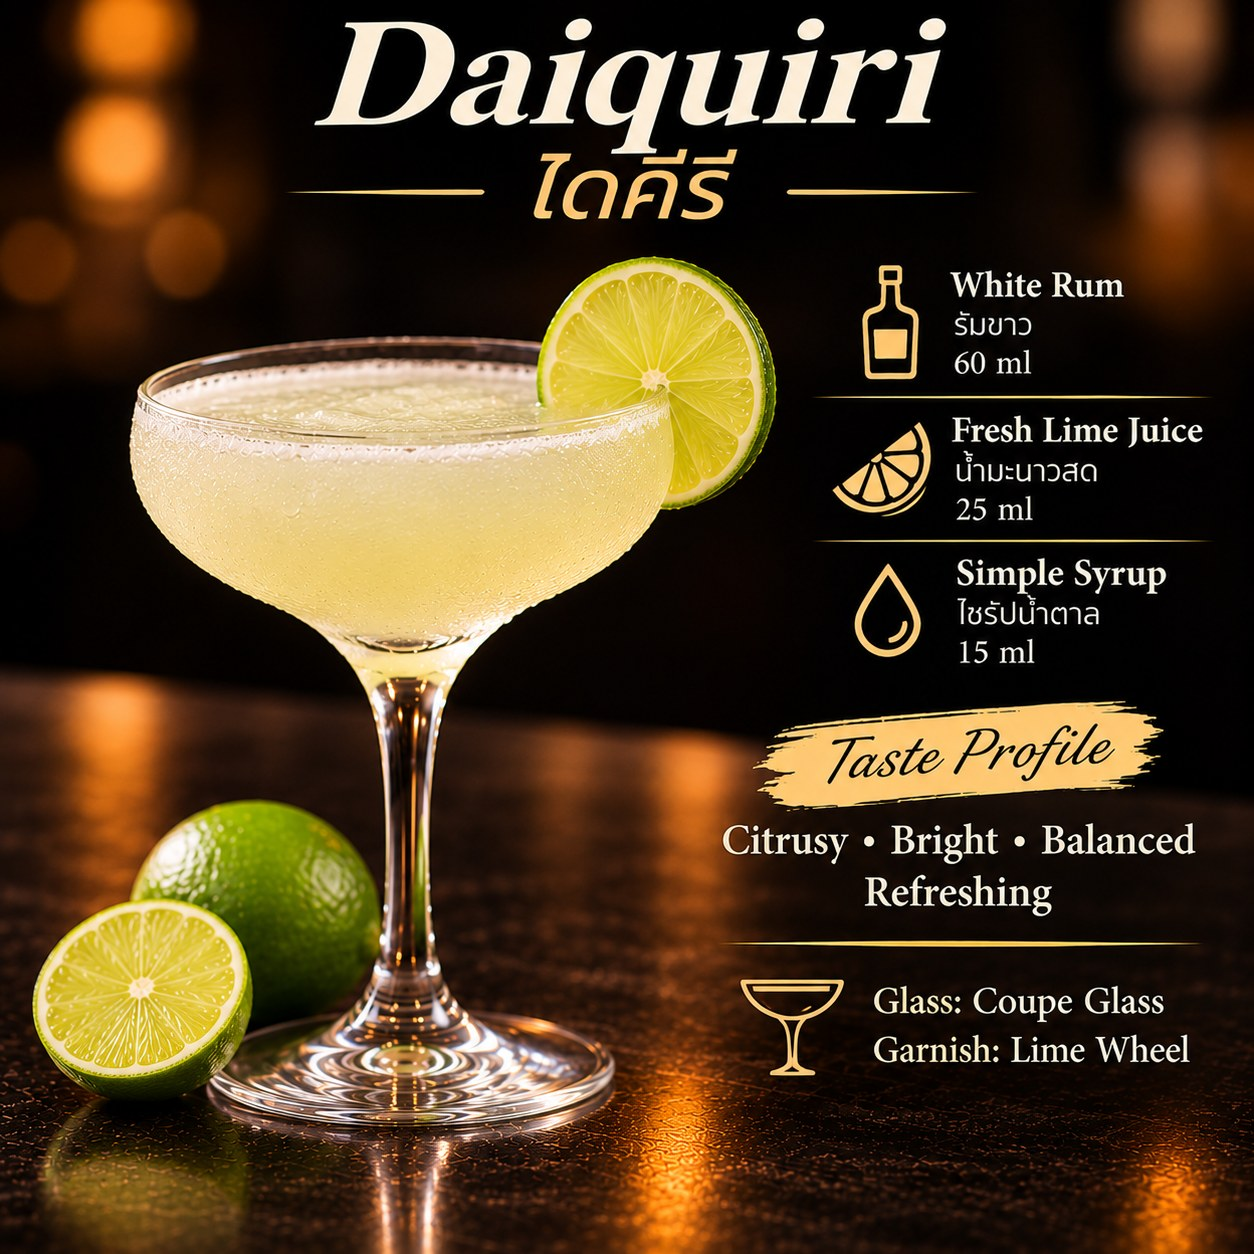
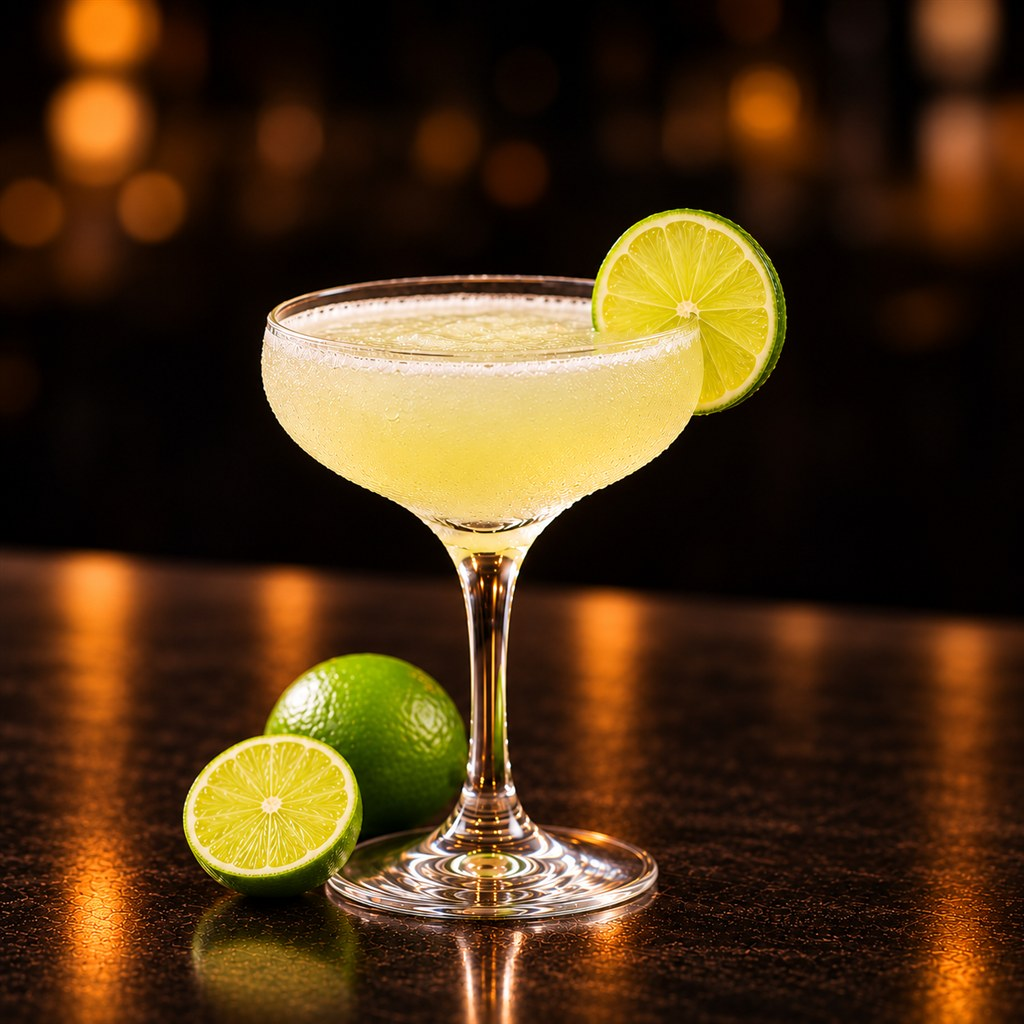
Cocktails: clean drink photos in the grid, info posters in the pop-up
- 11 text posters moved to cocktail_images/poster/; clean versions (Codex gpt-image-2) now in the grid
- 8 new info posters for photo-only drinks
- cocktail.js: new 'poster' field + posterFolder (falls back to image)

Claude-Session: https://claude.ai/code/session_01PazbTDf62U721dDX1YyGGG

diff --git a/cocktail.js b/cocktail.js
@@ -10,7 +10,10 @@
   //   order        1 = first in its section, then 2, 3 ...
   //   price        number, or text like "฿160–250"
   //   unit         "Glass", "Shot" ... shown next to the price
-  //   image        file name inside imageFolder (and thumbFolder)
+  //   image        clean photo (drink only, no text) shown in the grid,
+  //                file name inside imageFolder (and thumbFolder)
+  //   poster       info poster shown in the pop-up when tapped, file name
+  //                inside posterFolder (optional; falls back to image)
   //   new          true puts a gold star on the card
   //   hidden       true hides the drink without deleting it
   //   description  paragraph on the tap card (optional)
@@ -43,6 +46,7 @@
   function render(data){
     var folder = data.imageFolder || '';
     var thumbs = data.thumbFolder || folder;
+    var posters = data.posterFolder || folder;
     var currency = data.currency === undefined ? '฿' : data.currency;
     if (data.title) document.title = 'The Old Pals — ' + data.title;
     var items = (data.items || []).filter(function(it){ return it && !it.hidden; });
@@ -68,7 +72,7 @@
       var grid = el('div', 'grid');
       list.forEach(function(it){
         var price = priceText(it.price, currency);
-        var full = folder + it.image + bust;
+        var full = it.poster ? posters + it.poster + bust : folder + it.image + bust;
         var btn = el('button', 'drink-btn');
         btn.type = 'button';
         btn.setAttribute('aria-label', it.name + (price ? ', ' + price : '') + (it.new ? ', new' : ''));

diff --git a/cocktail.html b/cocktail.html
@@ -44,6 +44,6 @@
   </div>
 </div>
 
-<script src="cocktail.js?v=2"></script>
+<script src="cocktail.js?v=3"></script>
 </body>
 </html>
